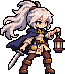
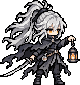
리라 2차 디자인 '검은 순례자': 흑백 모노톤·찢어진 천 자락·긴 외날검, 랜턴만 앰버 (치비 픽셀 80x85) + 기획서 5장 갱신
Claude-Session: https://claude.ai/code/session_01KAe6Yh4AK4EFG9UVm4TpTC

diff --git a/js/render.js b/js/render.js
@@ -25,7 +25,7 @@ export class Renderer {
     this.lantern = { a: 0, v: 0 };
     this.squash = 0; this.flash = 0; this.zoom = 0; this.stunFx = new Map();
     this.debug = /debug=1/.test(location.search);
-    // 리라 픽셀 그림 (Higgsfield: 리라 디자인 + 사용자 샘플 화풍 → forge pixel_look로 픽셀 격자 맞춤). 기준점: 발 중앙 (31, 74)
+    // 리라 픽셀 그림 (Higgsfield: 리라 디자인 + 사용자 샘플 화풍 → forge pixel_look로 픽셀 격자 맞춤). 기준점: 발 중앙 (43, 85)
     this.liraImg = new Image(); this.liraImg.src = 'assets/lira.png';
     this.resize();
   }
@@ -231,7 +231,7 @@ export class Renderer {
       const bob = p.state === 'run' ? Math.abs(Math.sin(w.t * 0.45)) * 2 : p.state === 'idle' ? Math.sin(w.t * 0.08) * 0.6 : 0;
       g.save(); g.translate(cx, feet - bob); g.rotate(lean * f); g.scale(sx * f, sy);
       const img = p.state === 'hurt' && (w.t >> 1) % 2 ? this.tinted('#ff3c50') : this.liraImg;
-      g.drawImage(img, -31, -74);
+      g.drawImage(img, -43, -85);
       g.restore();
       this.drawParryArc(g, p, cx, feet, f);
       return;

diff --git a/js/core/config.js b/js/core/config.js
@@ -13,7 +13,7 @@ export const CFG = {
     jumpMaxH: 96,
     coyoteF: 6, bufferF: 8,
     hp: 5, iframesHurt: 60, hurtStunF: 14,
-    w: 22, h: 60,       // 리라 치비 그림(65x74)에 맞춘 몸통 판정
+    w: 22, h: 62,       // 리라 '검은 순례자' 그림(80x85)에 맞춘 몸통 판정
   },
   attack: { dmg: [10, 10, 18], startupF: 4, activeF: 3, recoveryF: 10, range: 38, comboWindowF: 14, hitstop: [4, 4, 7], push: [4, 4, 6.5], lunge: 2.1 },
   parry: {

diff --git a/docs/superpowers/specs/2026-11-19-lantern-keeper-design.md b/docs/superpowers/specs/2026-11-19-lantern-keeper-design.md
@@ -58,17 +58,19 @@
 - **로그라이크 정당화:** 리라가 쓰러지면 랜턴의 불씨가 그녀를 등대로 되돌려 보낸다. 다시 켠 대등은 꺼지지 않고, 그 빛만큼 마을이 살아난다(해금).
 - **연출 톤:** 대사는 짧고 담담하게. 텍스트는 최소, 분위기는 그림과 빛으로.
 
-## 5. 주인공 — 리라 (사용자 확정)
+## 5. 주인공 — 리라 (사용자 확정, 2차 디자인 "검은 순례자")
 
 | 항목 | 내용 |
 |---|---|
-| 정체 | 등불 순례자. 10대 후반, 키가 큰 편, 단호한 눈매 (늠름함) |
-| 머리 | 은백발 긴 포니테일 — 등불빛을 받으면 주황빛으로 물듦, 움직일 때 휘날림 |
-| 눈 | 호박색(앰버) — 어둠 속에서 은은하게 빛남 |
-| 복장 | 후드 달린 짧은 망토, 몸에 붙는 여행복, 허리에 기름병·부적. 갑옷 없음 (기사 아님) |
-| 무기 | 오른손 한손검 (공격) + 왼손 사슬 달린 고풍스러운 랜턴 (패링) |
-| 성격 | 과묵·담담, 속은 다정. 보스 처치 시 짧은 한마디 + 작은 미소 |
-| 스프라이트 | 6~7등신, 게임 내 높이 약 56px (내부 해상도 640×360 기준) |
+| 정체 | 등불 순례자. 10대 후반, 단호한 눈매 |
+| 그림체 | 3등신 치비 픽셀 (사용자 레퍼런스 `design/reference/style-chibi.jpg`의 그리는 방식만 참고, 디자인은 오리지널) |
+| 머리 | 은백발 긴 포니테일, 휘날림 |
+| 눈 | 호박색(앰버) |
+| 복장 | 검정·진한 남색 모노톤. 끝이 찢어진 긴 천 자락(망토·허리천)이 날카롭게 휘날림. 허리에 작은 기름병. 갑옷 없음 |
+| 색 원칙 | 거의 흑백 — **오직 랜턴만 따뜻한 앰버빛** ("어둠 속 등불"이 한눈에) |
+| 무기 | 오른손 긴 외날검(가늘고 살짝 휜 칼날) + 왼손 사슬 랜턴 (패링) |
+| 성격 | 과묵·담담, 속은 다정 |
+| 스프라이트 | 약 65x74, 몸통 판정 22x60 |
 
 **추후 여캐 (v1 범위 안의 NPC):** 등대 마을 상인, 대장장이, 기록관 등 — 각자 사용자에게 세부 디자인을 물어본 뒤 제작. 보스 중 인간형(침수 성녀, 흑염의 순례자)도 동일.
 
